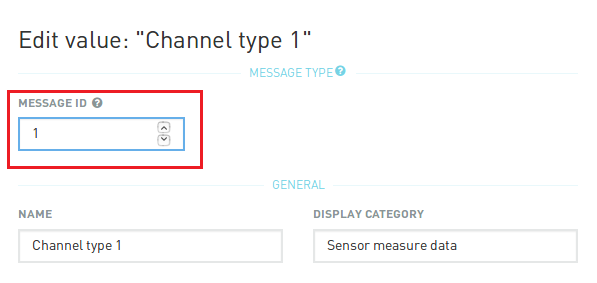
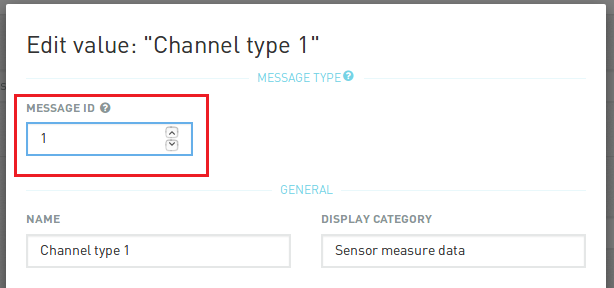
improved screenshots

diff --git a/src/documents/guides/users-guide/LoRa.html.md b/src/documents/guides/users-guide/LoRa.html.md
@@ -120,7 +120,7 @@ In this example the "Channel 1 Type" information starts in byte 2 (i.e. start bi
 
 <img src="/guides/users-guide/actility/payload-example3.png" alt="Example payload: value selection" style="max-width: 100%">
 
-<img src="/guides/users-guide/actility/deviceDatabase4b.png" alt="Value selection" style="max-width: 100%">
+<img src="/guides/users-guide/actility/deviceDatabase4b.png" alt="Value selection" style="max-width: 50%">
 
 Under "Value normalisation" define how the raw value should be transformed before being stored in the platform and enter the appropriate values for:
 
